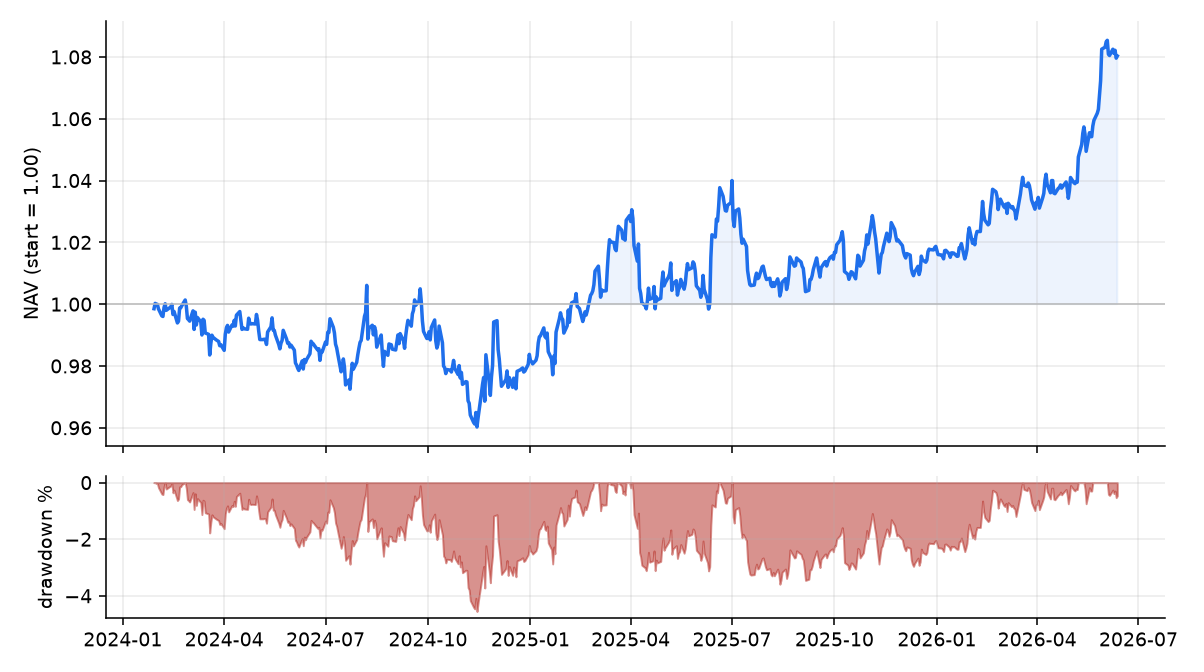
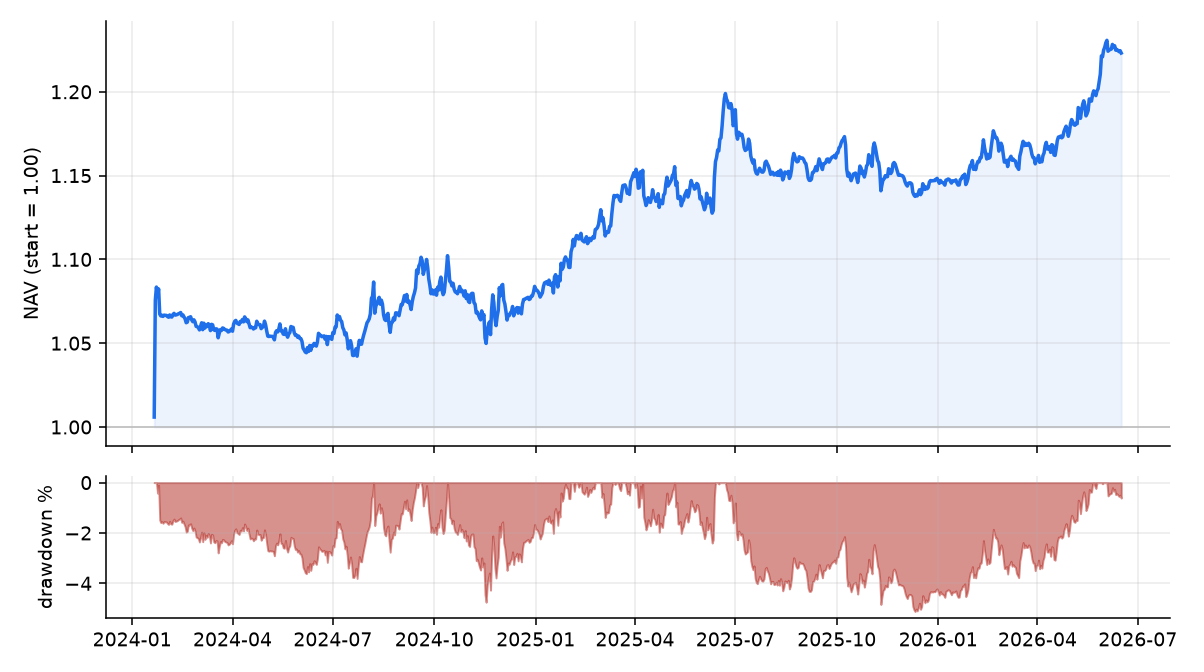
live: NAV update 2026-06-18T09:18Z

diff --git a/index.html b/index.html
@@ -3,7 +3,7 @@
 <title>Alpha Research — Live Book</title>
 <meta name="description" content="Live paper-traded NAV of the Alpha Research diversified risk-premium book: crypto carry/trend + FX carry/value, risk-parity, vol-targeted, net of costs. Updated daily.">
 <meta property="og:title" content="Alpha Research — Live Book">
-<meta property="og:description" content="Paper-traded NAV of the diversified risk-premium book, updated daily. Sharpe 0.62, NAV 1.080 since 2024-01-01.">
+<meta property="og:description" content="Paper-traded NAV of the diversified risk-premium book, updated daily. Sharpe 0.95, NAV 1.223 since 2024-01-01.">
 <meta property="og:type" content="website"><meta property="og:url" content="https://alpha.vineai.tech/">
 <meta property="og:image" content="https://alpha.vineai.tech/nav.png">
 <meta property="og:image:width" content="1204"><meta property="og:image:height" content="672">
@@ -36,18 +36,18 @@ footer{margin-top:46px;padding-top:16px;border-top:1px solid var(--rule);color:v
 <header>
   <div class="tag">Alpha Research · Live Book</div>
   <h1>The diversified risk-premium book, paper-traded live</h1>
-  <p class="sub">Inception 2024-01-01 · data through 2026-06-12 · updated 2026-06-17 17:11:42 UTC<br>
+  <p class="sub">Inception 2024-01-01 · data through 2026-06-16 · updated 2026-06-18 09:18:02 UTC<br>
   The capstone of the <a href="https://bryanvine.github.io/alpha-research/">Alpha Research</a> series
   (<a href="https://bryanvine.github.io/alpha-research/paper7.html">Paper 7</a>), tracked forward as a paper portfolio.</p>
 </header>
 
-<div class="cards"><div class="card"><div class="k">NAV</div><div class="v pos">1.080</div></div><div class="card"><div class="k">Total return</div><div class="v pos">+8.0%</div></div><div class="card"><div class="k">Annualized</div><div class="v pos">+3.2%</div></div><div class="card"><div class="k">Sharpe</div><div class="v pos">0.62</div></div><div class="card"><div class="k">Volatility</div><div class="v mut">5.3%</div></div><div class="card"><div class="k">Max drawdown</div><div class="v neg">-4.6%</div></div></div>
+<div class="cards"><div class="card"><div class="k">NAV</div><div class="v pos">1.223</div></div><div class="card"><div class="k">Total return</div><div class="v pos">+22.3%</div></div><div class="card"><div class="k">Annualized</div><div class="v pos">+6.0%</div></div><div class="card"><div class="k">Sharpe</div><div class="v pos">0.95</div></div><div class="card"><div class="k">Volatility</div><div class="v mut">6.3%</div></div><div class="card"><div class="k">Max drawdown</div><div class="v neg">-5.1%</div></div></div>
 
 <figure><img src="nav.png" alt="Live NAV equity curve and drawdown"></figure>
 
 <h2>Current target weights &amp; sleeve performance</h2>
 <table><thead><tr><th>Sleeve</th><th>Weight</th><th>Sharpe (since inception)</th></tr></thead>
-<tbody><tr><td>FX value</td><td>48.5%</td><td class="neg">-0.59</td></tr><tr><td>FX carry</td><td>38.0%</td><td class="pos">+0.66</td></tr><tr><td>Crypto funding carry</td><td>8.8%</td><td class="pos">+1.12</td></tr><tr><td>Crypto trend</td><td>4.8%</td><td class="pos">+0.05</td></tr></tbody></table>
+<tbody><tr><td>FX value</td><td>47.1%</td><td class="neg">-0.59</td></tr><tr><td>FX carry</td><td>37.8%</td><td class="pos">+0.66</td></tr><tr><td>Crypto funding carry</td><td>9.1%</td><td class="pos">+1.01</td></tr><tr><td>Crypto trend</td><td>6.0%</td><td class="pos">+0.18</td></tr></tbody></table>
 
 <div class="note"><strong>What this is.</strong> A risk-parity, 10%/yr-vol-targeted combination of the
 daily-tradable survivors from the research program — crypto funding carry, crypto trend, and G10 FX